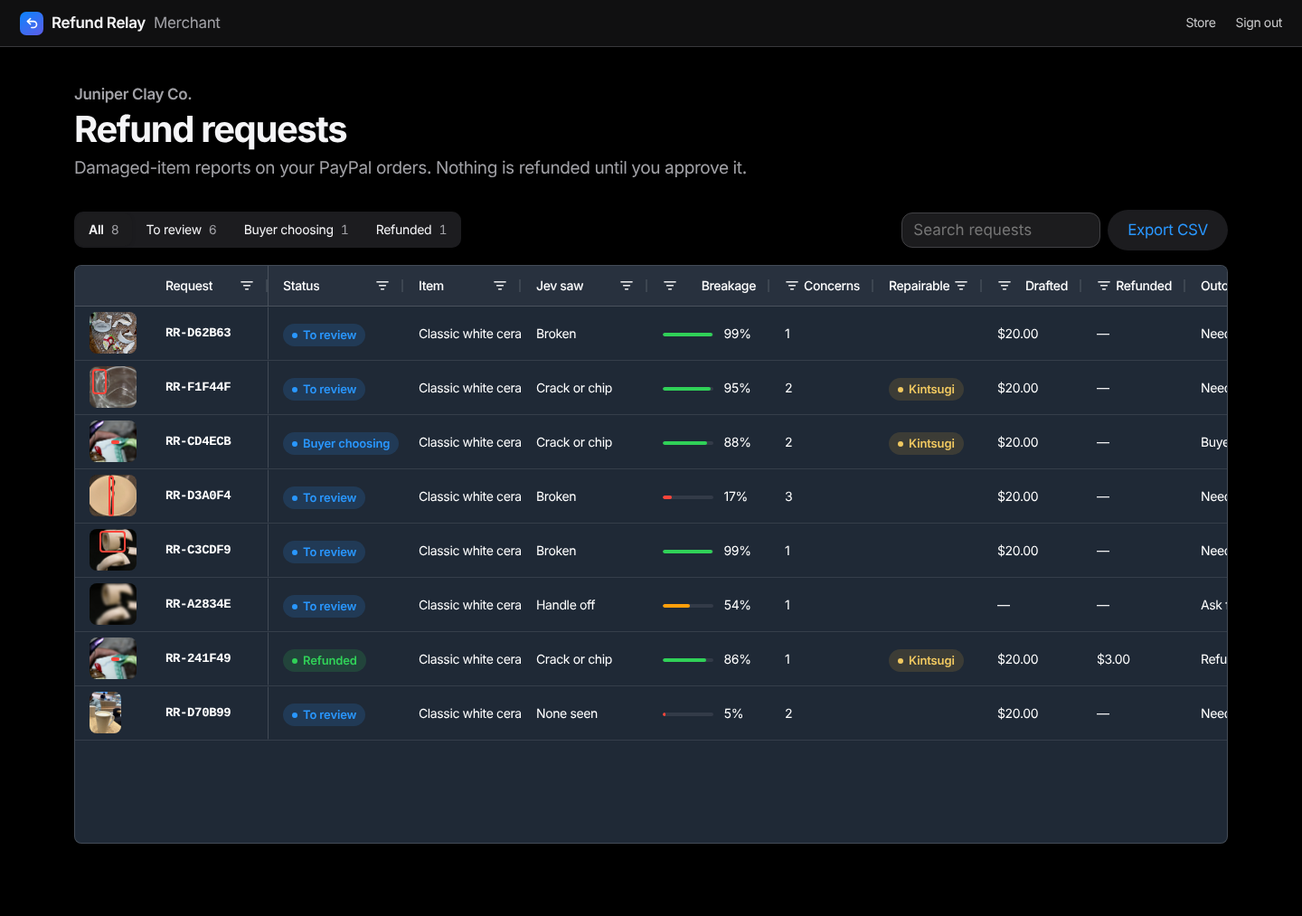
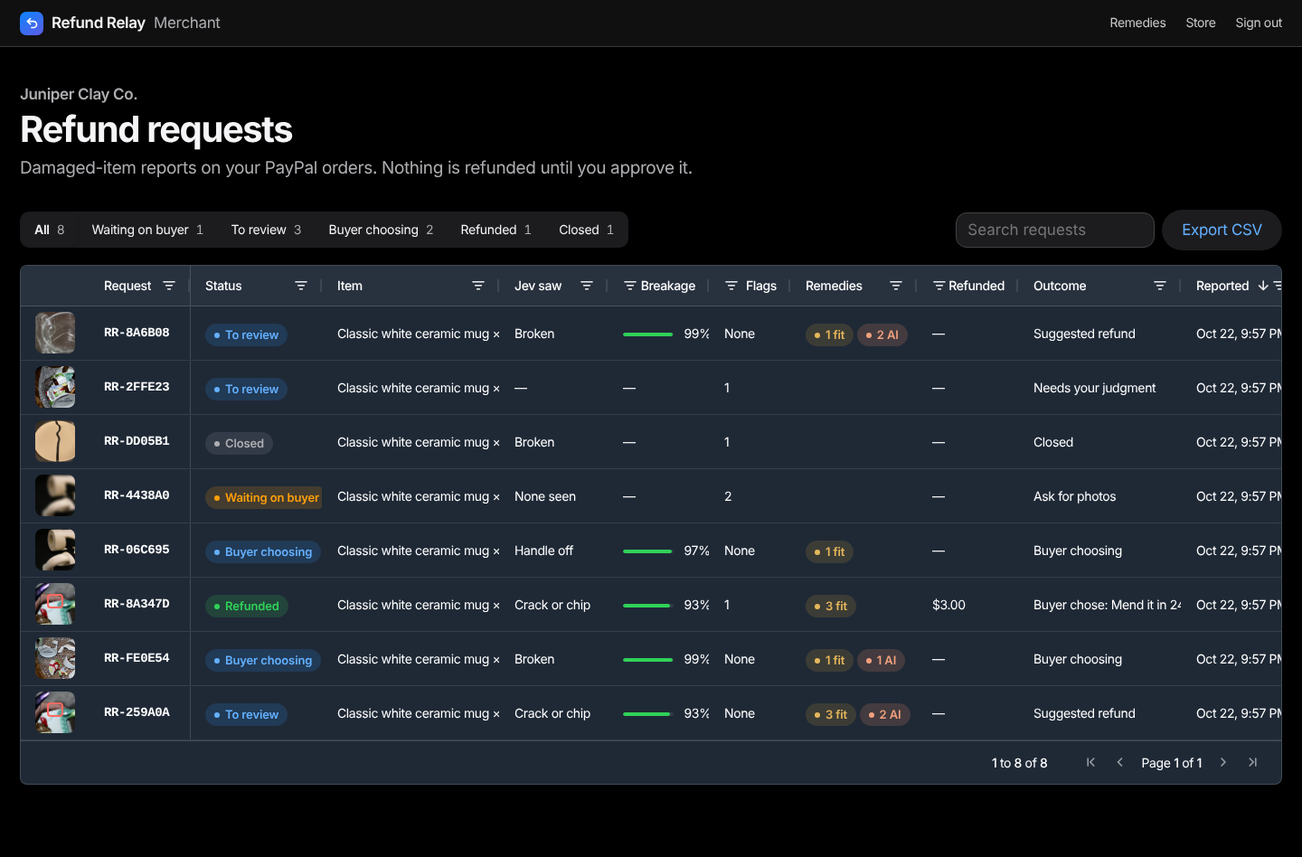
Polish pass: inbox fit, offer block with Haiku inside, contrast fixes
- Inbox grid fits the screen, grows with its rows, and shows library matches and Claude
  Haiku suggestions as separate pills.
- Case page: one offer block holds Jev's library matches, then Haiku's suggestions with
  Add and Dismiss, then "Let the buyer choose"; readable on a phone.
- Claude Haiku gets its own colour in the timeline; buyer success headline is short.
- WCAG AA contrast fixes for buttons, links, pills and labels in light and dark (axe).

Claude-Session: https://claude.ai/code/session_014cLwM6RZnsKra9CnWQkRmn

diff --git a/public/app.css b/public/app.css
@@ -7,19 +7,24 @@
   --fill: rgb(120 120 128 / 0.12);
   --fill-strong: rgb(120 120 128 / 0.2);
   --text: #1d1d1f;
-  --text-2: #6e6e73;
+  --text-2: #636366;
   --separator: rgb(60 60 67 / 0.16);
   --border: #d2d2d7;
   --nav-bg: rgb(255 255 255 / 0.72);
 
   --blue: #0071e3;
   --blue-hover: #0077ed;
-  --blue-text: #0066cc;
+  --blue-text: #0060c0;
+  --action: #0071e3; /* filled buttons: white text stays above 4.5:1 in both themes */
+  --paypal: #0070e0;
+  --red-fill: #d70015;
   --green: #1a7431;
   --green-fill: #34c759;
   --orange: #a14800;
   --red: #c70012;
   --purple: #8944ab;
+  --claude: #9c4a26;
+  --tint-claude: rgb(217 119 87 / 0.14);
   --tint-blue: rgb(0 113 227 / 0.1);
   --tint-green: rgb(52 199 89 / 0.14);
   --tint-orange: rgb(255 149 0 / 0.14);
@@ -45,8 +50,8 @@
 @media (prefers-color-scheme: dark) {
   :root:not([data-theme="light"]) {
     --bg: #000000; --surface: #1c1c1e; --surface-2: #2c2c2e; --fill: rgb(118 118 128 / 0.24); --fill-strong: rgb(118 118 128 / 0.36);
-    --text: #f5f5f7; --text-2: #a1a1a6; --separator: rgb(84 84 88 / 0.6); --border: #424245; --nav-bg: rgb(22 22 23 / 0.72);
-    --blue: #2997ff; --blue-text: #2997ff; --blue-hover: #47a6ff; --green: #30d158; --green-fill: #30d158; --orange: #ff9f0a; --red: #ff453a; --purple: #bf5af2;
+    --text: #f5f5f7; --text-2: #aeaeb2; --separator: rgb(84 84 88 / 0.6); --border: #424245; --nav-bg: rgb(22 22 23 / 0.72);
+    --blue: #2997ff; --blue-text: #64b0ff; --paypal: #5aa9ff; --red-fill: #d70015; --blue-hover: #47a6ff; --green: #30d158; --green-fill: #30d158; --orange: #ff9f0a; --red: #ff6961; --purple: #bf5af2; --claude: #f0a07e; --tint-claude: rgb(232 145 107 / 0.18);
     --tint-blue: rgb(41 151 255 / 0.16); --tint-green: rgb(48 209 88 / 0.16); --tint-orange: rgb(255 159 10 / 0.16);
     --tint-red: rgb(255 69 58 / 0.16); --tint-purple: rgb(191 90 242 / 0.16);
     --shadow: none; --shadow-lift: 0 8px 30px rgb(0 0 0 / 0.5); --focus: 0 0 0 4px rgb(41 151 255 / 0.4);
@@ -88,7 +93,7 @@ header.top nav a:hover { opacity: 1; text-decoration: none; }
 /* Layout */
 main { max-width: 1040px; margin: 0 auto; padding: 40px 22px 80px; }
 main.narrow { max-width: 640px; }
-main.wide { max-width: 1320px; }
+main.wide { max-width: 1480px; }
 .stack > * + * { margin-top: 16px; }
 .grid { display: grid; gap: 20px; }
 @media (min-width: 820px) { .grid.two { grid-template-columns: 1fr 1fr; } .grid.case { grid-template-columns: minmax(0, 1.3fr) minmax(0, 1fr); align-items: start; } }
@@ -154,7 +159,7 @@ select { appearance: none; padding-right: 40px; background-image: url("data:imag
 .dropzone:hover, .dropzone.over { border-color: var(--blue); background: var(--tint-blue); }
 .dropzone:focus-within { border-color: var(--blue); box-shadow: var(--focus); }
 .dropzone svg { width: 34px; height: 34px; color: var(--blue); }
-.dropzone strong { color: var(--blue); font-weight: 600; }
+.dropzone strong { color: var(--blue-text); font-weight: 600; }
 .dropzone input[type=file] { position: absolute; inset: 0; opacity: 0; cursor: pointer; min-height: 0; }
 .dropzone.has-files { min-height: 0; padding: 14px; flex-direction: row; justify-content: flex-start; }
 
@@ -162,13 +167,13 @@ select { appearance: none; padding-right: 40px; background-image: url("data:imag
 button, .button {
   display: inline-flex; align-items: center; justify-content: center; gap: 8px; min-height: 44px;
   font: inherit; font-size: 17px; font-weight: 400; letter-spacing: -0.02em; padding: 10px 22px;
-  border-radius: var(--r-pill); border: 0; background: var(--fill); color: var(--blue); cursor: pointer; text-decoration: none;
+  border-radius: var(--r-pill); border: 0; background: var(--fill); color: var(--blue-text); cursor: pointer; text-decoration: none;
   transition: background 0.2s var(--ease), transform 0.1s var(--ease), opacity 0.2s var(--ease);
 }
 button:hover, .button:hover { background: var(--fill-strong); text-decoration: none; }
 button:active:not(:disabled), .button:active { transform: scale(0.98); }
-button.primary, .button.primary { background: var(--blue); color: #fff; }
-button.primary:hover, .button.primary:hover { background: var(--blue-hover); }
+button.primary, .button.primary { background: var(--action); color: #fff; }
+button.primary:hover, .button.primary:hover { background: var(--action); filter: brightness(1.08); }
 button.lg, .button.lg { width: 100%; min-height: 52px; font-size: 17px; font-weight: 600; }
 button.approve { background: #1a7d36; color: #fff; font-weight: 600; width: 100%; min-height: 52px; }
 button.approve:hover { background: #1a7431; }
@@ -213,7 +218,7 @@ button:disabled { opacity: 0.4; cursor: default; }
 .damage-frame img { display: block; }
 .damage-box { position: absolute; border: 3px solid var(--red); border-radius: 10px; pointer-events: none; box-shadow: 0 0 0 9999px rgb(0 0 0 / 0.38); animation: box-in 0.6s var(--ease) 0.15s both; }
 .thumbs .damage-box { border-width: 2px; border-radius: 6px; box-shadow: none; }
-.damage-box .damage-label { position: absolute; left: -3px; bottom: 100%; margin-bottom: 6px; line-height: 1; padding: 5px 8px; border-radius: 7px; background: var(--red); color: #fff; font-size: 12px; font-weight: 600; white-space: nowrap; }
+.damage-box .damage-label { position: absolute; left: -3px; bottom: 100%; margin-bottom: 6px; line-height: 1; padding: 5px 8px; border-radius: 7px; background: var(--red-fill); color: #fff; font-size: 12px; font-weight: 600; white-space: nowrap; }
 .damage-box.low .damage-label { bottom: auto; top: 0; left: 0; margin: 0; border-radius: 6px 0 7px 0; } /* no room above: sit inside the corner */
 .damage-hero { margin: 4px 0 18px; }
 .damage-hero .damage-frame { max-width: 100%; }
@@ -249,7 +254,7 @@ button:disabled { opacity: 0.4; cursor: default; }
 .reasons li { display: flex; gap: 8px; padding: 4px 0; color: var(--orange); }
 .reasons li::before { content: "•"; }
 details.more { margin-top: 12px; border-top: 0.5px solid var(--separator); padding-top: 4px; }
-details.more summary { list-style: none; cursor: pointer; min-height: 44px; display: flex; align-items: center; justify-content: center; gap: 6px; color: var(--blue); font-size: 15px; border-radius: 8px; }
+details.more summary { list-style: none; cursor: pointer; min-height: 44px; display: flex; align-items: center; justify-content: center; gap: 6px; color: var(--blue-text); font-size: 15px; border-radius: 8px; }
 details.more summary::-webkit-details-marker { display: none; }
 details.more summary::after { content: ""; width: 7px; height: 7px; border: solid currentColor; border-width: 0 1.6px 1.6px 0; transform: rotate(45deg) translateY(-2px); transition: transform 0.2s var(--ease); }
 details.more[open] summary::after { transform: rotate(-135deg) translateY(-2px); }
@@ -330,13 +335,13 @@ ol.timeline li.merchant { --dot: var(--merchant); }
 ol.timeline .when { font-size: 13px; color: var(--text-2); }
 ol.timeline li.jev { --dot: var(--model); }
 ol.timeline li.policy { --dot: var(--orange); }
-ol.timeline li.paypal { --dot: #0070e0; }
+ol.timeline li.paypal { --dot: var(--paypal); }
 ol.timeline.agent li { padding-bottom: 16px; }
 ol.timeline.agent .who { font-size: 12px; font-weight: 600; letter-spacing: 0.02em; text-transform: uppercase; color: var(--dot, var(--text-2)); }
 ol.timeline.agent .who .when { font-weight: 400; text-transform: none; letter-spacing: 0; margin-left: 6px; }
 ol.timeline.agent .what { font-weight: 500; margin: 1px 0 2px; }
 ol.timeline.agent .small { line-height: 1.45; }
-ol.timeline.agent .footnote { margin: 2px 0 0; word-break: break-all; }
+ol.timeline.agent .footnote { margin: 2px 0 0; word-break: normal; overflow-wrap: anywhere; }
 
 /* Lightbox */
 dialog { border: 0; padding: 0; background: transparent; max-width: 92vw; }
@@ -375,7 +380,7 @@ footer.foot { max-width: 1040px; margin: 0 auto; padding: 0 22px 40px; color: va
 .grid-tools { display: flex; justify-content: space-between; align-items: center; gap: 12px; flex-wrap: wrap; margin-bottom: 16px; }
 .grid-tools input[type=search] { width: 220px; min-height: 36px; padding: 6px 12px; }
 .grid-tools button { min-height: 36px; }
-.inbox-grid { height: 640px; width: 100%;
+.inbox-grid { width: 100%;
   --ag-font-family: Inter, -apple-system, system-ui, sans-serif; --ag-font-size: 14px;
   --ag-background-color: var(--surface); --ag-foreground-color: var(--text); --ag-header-background-color: var(--surface-2);
   --ag-header-foreground-color: var(--text-2); --ag-border-color: var(--border); --ag-row-border-color: var(--separator);
@@ -388,9 +393,9 @@ footer.foot { max-width: 1040px; margin: 0 auto; padding: 0 22px 40px; color: va
 .grid-thumb img { height: 46px; width: auto; display: block; }
 .inbox-grid .meter { display: inline-block; margin-right: 8px; vertical-align: middle; }
 .grid-thumb i { position: absolute; border: 2px solid var(--red); border-radius: 4px; }
-.pill.gold { background: rgb(212 162 58 / 0.16); color: #9a6b10; }
+.pill.gold { background: rgb(212 162 58 / 0.16); color: #7d540a; }
 @media (prefers-color-scheme: dark) { .pill.gold { color: #f0c860; } }
-@media (max-width: 620px) { .inbox-grid { height: 520px; } .grid-tools input[type=search] { width: 100%; } }
+@media (max-width: 620px) { .grid-tools input[type=search] { width: 100%; } }
 
 /* Remedy library */
 .remedy-product { margin-top: 20px; padding: 24px; }
@@ -399,15 +404,18 @@ footer.foot { max-width: 1040px; margin: 0 auto; padding: 0 22px 40px; color: va
 .remedy-add input, .remedy-add select { margin: 0; }
 @media (max-width: 860px) { .remedy-add { grid-template-columns: 1fr; } }
 
-/* Claude Haiku suggestions on a case */
-.ai-suggest { margin-top: 18px; padding: 16px; border-radius: 16px; background: var(--surface-2); border: 1px solid var(--border); }
-.ai-suggest .lead { display: grid; grid-template-columns: 32px 1fr; gap: 10px; align-items: center; }
-.ai-suggest .lead .art { color: var(--model); display: grid; place-items: center; }
-.ai-suggest .lead .art svg { width: 24px; height: 24px; }
-.ai-suggest ul { list-style: none; margin: 12px 0 0; padding: 0; display: grid; gap: 10px; }
-.ai-suggest li { display: grid; grid-template-columns: 1fr auto; gap: 12px; align-items: center; padding: 12px; border-radius: 12px; background: var(--surface); }
+/* Claude Haiku suggestions inside the offer block */
+.ai-suggest { margin-top: 16px; padding-top: 14px; border-top: 1px solid rgb(212 162 58 / 0.35); }
+.ai-suggest .ai-head { display: flex; align-items: center; gap: 6px; font-size: 13px; font-weight: 600; color: var(--claude); }
+.ai-suggest .ai-head svg { width: 16px; height: 16px; }
+.ai-suggest ul { list-style: none; margin: 10px 0 0; padding: 0; display: grid; gap: 10px; }
+.ai-suggest li { display: grid; gap: 4px; padding: 14px; border-radius: 14px; background: var(--surface); border: 1px solid var(--separator); }
+.ai-suggest .sugg-top { display: grid; grid-template-columns: 1fr auto; gap: 12px; align-items: baseline; }
+.ai-suggest li .amt { font-weight: 600; font-variant-numeric: tabular-nums; white-space: nowrap; }
 .ai-suggest li.dismissed { opacity: 0.55; }
-.ai-suggest .sugg-act { display: flex; gap: 6px; }
-.ai-suggest .sugg-act button { padding: 8px 14px; }
-.option-list .fit.ai { color: var(--model); }
-ol.timeline li.claude { --dot: var(--model); }
+.ai-suggest .sugg-act { display: flex; gap: 8px; margin-top: 8px; align-items: center; }
+.ai-suggest .sugg-act button { min-height: 36px; padding: 6px 16px; font-size: 15px; }
+.option-list .fit.ai { color: var(--claude); }
+ol.timeline li.claude { --dot: var(--claude); }
+.pill.claude { color: var(--claude); background: var(--tint-claude); }
+@media (prefers-color-scheme: dark) { :root:not([data-theme="light"]) .pill.gold { color: #e6b75a; } }

diff --git a/public/merchant/case.html b/public/merchant/case.html
@@ -139,13 +139,7 @@
           <div class="small muted">${proposal.route === "request_info" ? "No amount until clearer photos arrive." : `${c.quantity} × ${usd(c.unitCents)} unit price paid`}</div>
         </div>
         ${proposal.reasons.length ? `<ul class="reasons">${proposal.reasons.map((r) => `<li>${esc(proposal.reasonText?.[r] || REASON[r] || r)}</li>`).join("")}</ul>` : ""}
-        ${suggestionsHtml(proposal.suggestions)}
-        ${proposal.options?.length > 1 ? `<div class="offer-pitch">
-          <div class="lead"><span class="art">${optionArt(proposal.options[1])}</span><div><b>${proposal.options.length - 1} ${proposal.options.length === 2 ? "remedy" : "remedies"} ready to offer</b><div class="small muted">${proposal.options.some((o) => o.source === "haiku") ? "Jev's matches from <a href=\"/merchant/remedies\">your remedy library</a> and the Haiku suggestions you approved." : "Jev matched these from <a href=\"/merchant/remedies\">your remedy library</a>, best fit first."} Offer them with the full refund and let the buyer pick.</div></div></div>
-          ${optionListHtml(proposal.options)}
-          <button id="send-offer" class="primary lg" style="margin-top:16px">Let the buyer choose</button>
-        </div>
-        <p class="small muted center" style="margin:16px 0 0">Or refund directly</p>` : ""}
+        ${offerHtml(proposal)}
         <label for="amount">Refund amount <span class="hint">Up to ${usd(payment.refundableCents)} left on this payment · ${esc(proposal.policyVersion)}</span></label>
         <input id="amount" type="number" inputmode="decimal" min="0.01" step="0.01" max="${(payment.refundableCents / 100).toFixed(2)}" value="${(suggested / 100).toFixed(2)}">
         <div id="reason-wrap" class="${proposal.route === "propose" ? "hidden" : ""}">
@@ -164,19 +158,33 @@
       </div>`;
     }
 
-    // Claude Haiku's suggestions from the store's listings. None reaches the buyer until approved here.
-    function suggestionsHtml(list) {
-      if (!list?.length) return "";
-      return `<div class="ai-suggest">
-        <div class="lead"><span class="art">${ICON.sparkle}</span><div><b>Claude Haiku suggests</b><div class="small muted">Picked from your store listings for this product and damage. Approve one to add it to the buyer's choices.</div></div></div>
-        <ul>${list.map((s) => `<li class="${s.status}">
-          <div><b>${esc(s.title)}</b>
-            <div class="small">Send ${esc(s.item)} (${usd(s.itemPriceCents)}) · ${s.refundUnitCents ? `${usd(s.refundUnitCents)} back per item` : "no refund"}</div>
-            <div class="small muted">${esc(s.why)}</div></div>
-          <div class="sugg-act">${s.status === "pending"
-            ? `<button class="primary" data-suggest="${esc(s.id)}" data-approve="1">Add</button><button class="plain" data-suggest="${esc(s.id)}">Dismiss</button>`
-            : `<span class="pill ${s.status === "approved" ? "ok" : ""}">${s.status === "approved" ? "Added" : "Dismissed"}</span>`}</div>
-        </li>`).join("")}</ul></div>`;
+    // Everything the buyer could be offered instead of the plain refund: Jev's matches from the
+    // remedy library, then Claude Haiku's suggestions from the store's listings. A suggestion only
+    // joins the list once the merchant adds it.
+    function offerHtml(proposal) {
+      const options = proposal.options ?? [], suggestions = proposal.suggestions ?? [];
+      if (options.length < 2 && !suggestions.length) return "";
+      const library = options.filter((o) => o.kind !== "refund" && o.source !== "haiku").length;
+      const head = options.length > 1
+        ? `<b>${options.length - 1} ${options.length === 2 ? "remedy" : "remedies"} ready to offer</b><div class="small muted">${library ? `Jev matched ${library} from <a href="/merchant/remedies">your remedy library</a> to the photos.` : ""}${options.length - 1 > library ? ` ${options.length - 1 - library} added from Claude Haiku's suggestions.` : ""} The buyer picks one, or the full refund.</div>`
+        : `<b>No library remedy fits this damage</b><div class="small muted">Claude Haiku looked through your store listings instead. Add a suggestion to let the buyer choose.</div>`;
+      const art = options.length > 1 ? optionArt(options[1]) : ICON.sparkle;
+      return `<div class="offer-pitch">
+          <div class="lead"><span class="art">${art}</span><div>${head}</div></div>
+          ${options.length > 1 ? optionListHtml(options) : ""}
+          ${suggestions.length ? `<div class="ai-suggest">
+            <div class="ai-head">${ICON.sparkle}<span>Claude Haiku suggests</span></div>
+            <ul>${suggestions.map((s) => `<li class="${s.status}">
+              <div class="sugg-top"><b>${esc(s.title)}</b><span class="amt">${s.refundUnitCents ? `${usd(s.refundUnitCents)} back` : "No refund"}</span></div>
+              <div class="small">Ships free: ${esc(s.item)} <span class="muted">(${usd(s.itemPriceCents)} listing)</span></div>
+              <div class="small muted">${esc(s.why)}</div>
+              <div class="sugg-act">${s.status === "pending"
+                ? `<button class="primary" data-suggest="${esc(s.id)}" data-approve="1">Add to the offer</button><button class="plain" data-suggest="${esc(s.id)}">Dismiss</button>`
+                : `<span class="pill ${s.status === "approved" ? "ok" : ""}">${s.status === "approved" ? "Added to the offer" : "Dismissed"}</span>`}</div>
+            </li>`).join("")}</ul></div>` : ""}
+          ${options.length > 1 ? `<button id="send-offer" class="primary lg" style="margin-top:16px">Let the buyer choose</button>` : ""}
+        </div>
+        ${options.length > 1 ? `<p class="small muted center" style="margin:16px 0 0">Or refund directly</p>` : ""}`;
     }
 
     function optionListHtml(options) {

diff --git a/public/merchant/index.html b/public/merchant/index.html
@@ -68,19 +68,20 @@
     const html = (fn) => (p) => { const el = document.createElement("span"); el.innerHTML = fn(p.data, p.value); return el; };
 
     const columns = [
-      { headerName: "", field: "thumb", cellRenderer: thumbCell, width: 84, sortable: false, filter: false, resizable: false, pinned: "left", getQuickFilterText: () => "" },
-      { headerName: "Request", field: "ref", width: 130, pinned: "left", cellClass: "mono-cell" },
-      { headerName: "Status", field: "status", width: 150, cellRenderer: html((r) => pill(r.status)), getQuickFilterText: (p) => STATUS[p.value]?.[0] ?? p.value },
-      { headerName: "Item", field: "title", flex: 1, minWidth: 130, valueGetter: (p) => `${p.data.title} × ${p.data.quantity}` },
-      { headerName: "Jev saw", field: "damage_kind", width: 140, valueFormatter: (p) => DAMAGE[p.value] ?? "—" },
-      { headerName: "Breakage", field: "breakage", width: 135, type: "rightAligned",
+      { headerName: "", field: "thumb", cellRenderer: thumbCell, width: 76, sortable: false, filter: false, resizable: false, pinned: "left", getQuickFilterText: () => "" },
+      { headerName: "Request", field: "ref", width: 112, pinned: "left", cellClass: "mono-cell" },
+      { headerName: "Status", field: "status", width: 146, cellRenderer: html((r) => pill(r.status)), getQuickFilterText: (p) => STATUS[p.value]?.[0] ?? p.value },
+      { headerName: "Item", field: "title", flex: 1, minWidth: 196, tooltipValueGetter: (p) => p.data.title, valueGetter: (p) => `${p.data.title} × ${p.data.quantity}` },
+      { headerName: "Jev saw", field: "damage_kind", width: 120, valueFormatter: (p) => DAMAGE[p.value] ?? "—" },
+      { headerName: "Breakage", field: "breakage", width: 112, type: "rightAligned",
         cellRenderer: html((r) => r.breakage == null ? "—" : `<span class="meter" style="color:var(--${r.breakage >= 0.8 ? "green-fill" : r.breakage <= 0.2 ? "red" : "orange"})"><i style="width:${Math.round(r.breakage * 100)}%"></i></span> ${Math.round(r.breakage * 100)}%`) },
-      { headerName: "Concerns", field: "concerns", width: 115, type: "rightAligned", valueFormatter: (p) => p.value == null ? "—" : p.value === 0 ? "None" : String(p.value) },
-      { headerName: "Remedies", field: "remedies", width: 120, cellRenderer: html((r) => r.remedies ? `<span class="pill gold">${r.remedies} fit${r.remedies === 1 ? "s" : ""}</span>` : "") },
-      { headerName: "Drafted", field: "proposed_cents", width: 110, type: "rightAligned", valueFormatter: (p) => p.value ? usd(p.value) : "—" },
-      { headerName: "Refunded", field: "refunded_cents", width: 115, type: "rightAligned", valueFormatter: (p) => p.value ? usd(p.value) : "—" },
-      { headerName: "Outcome", colId: "outcome", width: 230, valueGetter: (p) => OUTCOME(p.data) },
-      { headerName: "Reported", field: "created_at", width: 165, sort: "desc", valueFormatter: (p) => when(p.value) },
+      { headerName: "Flags", field: "concerns", width: 90, headerTooltip: "Concerns the refund policy raised", type: "rightAligned", valueFormatter: (p) => p.value == null ? "—" : p.value === 0 ? "None" : String(p.value) },
+      { headerName: "Remedies", field: "remedies", width: 140, sortable: true, comparator: (a, b, x, y) => (a + x.data.ai_suggestions) - (b + y.data.ai_suggestions),
+        cellRenderer: html((r) => `${r.remedies ? `<span class="pill gold" title="Library remedies Jev matched">${r.remedies} fit</span>` : ""}${r.ai_suggestions ? ` <span class="pill claude" title="Claude Haiku suggestions, open or added">${r.ai_suggestions} AI</span>` : ""}`) },
+      { headerName: "Drafted", field: "proposed_cents", width: 100, hide: true, type: "rightAligned", valueFormatter: (p) => p.value ? usd(p.value) : "—" },
+      { headerName: "Refunded", field: "refunded_cents", width: 112, type: "rightAligned", valueFormatter: (p) => p.value ? usd(p.value) : "—" },
+      { headerName: "Outcome", colId: "outcome", flex: 1, minWidth: 180, tooltipValueGetter: (p) => OUTCOME(p.data), valueGetter: (p) => OUTCOME(p.data) },
+      { headerName: "Reported", field: "created_at", width: 132, sort: "desc", valueFormatter: (p) => p.value ? new Date(p.value).toLocaleString(undefined, { month: "short", day: "numeric", hour: "numeric", minute: "2-digit" }) : "" },
     ];
 
     function makeGrid() {
@@ -89,7 +90,7 @@
       const theme = () => $("grid").classList.toggle("ag-theme-quartz-dark", dark.matches);
       theme(); dark.addEventListener?.("change", theme);
       grid = agGrid.createGrid($("grid"), {
-        columnDefs: columns, rowData: [], rowHeight: 60, headerHeight: 44, animateRows: true,
+        columnDefs: columns, rowData: [], rowHeight: 60, headerHeight: 44, animateRows: true, domLayout: "autoHeight", pagination: true, paginationPageSize: 20, paginationPageSizeSelector: false,
         defaultColDef: { sortable: true, resizable: true, filter: true, suppressHeaderMenuButton: false },
         getRowId: (p) => p.data.id,
         isExternalFilterPresent: () => filter !== "all",

diff --git a/src/views.js b/src/views.js
@@ -10,7 +10,8 @@ const json = (s) => (s ? JSON.parse(s) : null);
 // Newest first, one page at a time: `before` is the created_at of the last row already shown.
 // The whole table in one response was 4.8 MB and 200 ms at 20k claims.
 // Each row also carries what the merchant grid shows at a glance: Jev's headline finding, the
-// photo it outlined, how many concerns the policy raised, and how the case ended.
+// photo it outlined, how many concerns the policy raised, how many library remedies fit and how
+// many Claude Haiku suggestions are open or added, and how the case ended.
 export function inbox(db, { limit = 100, before = null } = {}) {
   const n = Math.min(Math.max(Number(limit) || 100, 1), 500);
   return db.prepare(`
@@ -20,6 +21,7 @@ export function inbox(db, { limit = 100, before = null } = {}) {
       (SELECT COUNT(*) FROM evidence e WHERE e.claim_id = c.id) AS photos,
       (SELECT chosen_option FROM offers f WHERE f.claim_id = c.id ORDER BY f.created_at DESC LIMIT 1) AS chosen_option,
       (SELECT options_json FROM offers f WHERE f.claim_id = c.id ORDER BY f.created_at DESC LIMIT 1) AS offer_options,
+      (SELECT COUNT(*) FROM suggestions s WHERE s.proposal_id = p.id AND (s.status = 'approved' OR (s.status = 'pending' AND c.status = 'ready'))) AS ai_suggestions,
       (SELECT COALESCE(SUM(amount_cents), 0) FROM refund_ops r WHERE r.claim_id = c.id AND r.status = 'COMPLETED') AS refunded_cents
     FROM claims c JOIN order_lines l ON l.id = c.line_id JOIN orders o ON o.id = c.order_id
     LEFT JOIN proposals p ON p.id = (SELECT id FROM proposals x WHERE x.claim_id = c.id ORDER BY x.created_at DESC LIMIT 1)
@@ -35,7 +37,7 @@ export function inbox(db, { limit = 100, before = null } = {}) {
       damage_kind: f?.damage_kind ?? null,
       breakage: f?.signals?.visible_breakage ?? null,
       concerns: calc?.reasons?.length ?? null,
-      remedies: Math.max(0, (calc?.options ?? []).length - 1),
+      remedies: (calc?.options ?? []).filter((o) => o.kind !== "refund").length,
       chosen_title: (json(offer_options) ?? []).find((o) => o.id === r.chosen_option)?.title ?? null,
       thumb: i >= 0 ? { id: sent[i], box: f.locations[i].box } : r.first_photo ? { id: r.first_photo, box: null } : null,
     };

diff --git a/public/status.html b/public/status.html
@@ -29,6 +29,7 @@
   <script type="module">
     import { api, usd, esc, hashToken, when, checkBadge, ICON, busy, settle, optionText, optionArt, optionAmount } from "/app.js";
     import { shrinkPhotos } from "/photos.js";
+    const cap = (t) => t.charAt(0).toUpperCase() + t.slice(1);
     const claimId = new URLSearchParams(location.search).get("claim");
     const token = hashToken();
     const $ = (id) => document.getElementById(id);
@@ -66,7 +67,7 @@
           ${refunded || s.status === "resolved" ? checkBadge() : ""}
           <p class="eyebrow" style="margin:0">Request ${esc(s.ref)}</p>
           ${refunded ? `<div class="big amount">${usd(s.refund.amountCents)}</div>` : ""}
-          <h2 style="font-size:28px;letter-spacing:-0.03em">${esc(chosen(s)?.item && (refunded || s.status === "resolved") ? (refunded ? "Refund sent, and " : "Sorted: ") + chosen(s).item + " is on its way." : s.message)}</h2>
+          <h2 style="font-size:28px;letter-spacing:-0.03em">${esc(chosen(s)?.item && (refunded || s.status === "resolved") ? `${refunded ? "Refund sent." : "All sorted."} ${cap(chosen(s).item)} is on its way.` : s.message)}</h2>
           <ol class="tracker" style="--n:3;margin:28px 0 8px">${steps(s)}</ol>
         </div>
         ${s.offer?.open ? `<div class="card"><h2 style="margin-top:0">Pick one</h2><p class="muted" style="margin-top:-6px">The shop approved every option here. The amount on each is what comes back to your PayPal account.</p>${optionsHtml(s.offer)}</div>` : ""}

diff --git a/src/catalog.js b/src/catalog.js
@@ -9,10 +9,10 @@ export const PRODUCTS = {
     // Starting remedy library. The merchant edits it on the Remedies page; Jev reads each "fits"
     // line against the photos and the best-fitting ones become the buyer's options.
     remedies: [
-      { id: "kintsugi", kind: "repair_kit", title: "Keep it and mend it with kintsugi", item: "kintsugi repair kit with gold powder",
+      { id: "kintsugi", kind: "repair_kit", title: "Keep it and mend it with kintsugi", item: "a kintsugi repair kit with gold powder",
         fits: "Mends a chip, a crack, or a snapped-off handle on a ceramic mug that is otherwise in one piece. Cannot rebuild a mug broken into many pieces.",
         refundUnitCents: 1200 },
-      { id: "kintsugi_gold", kind: "repair_kit", title: "Mend it in 24k gold leaf", item: "24k gold-leaf kintsugi kit (its $9 price comes off the refund)",
+      { id: "kintsugi_gold", kind: "repair_kit", title: "Mend it in 24k gold leaf ($9 kit)", item: "a 24k gold-leaf kintsugi kit",
         fits: "Mends a chip, a crack, or a snapped-off handle on a ceramic mug that is otherwise in one piece, with real gold leaf. Cannot rebuild a mug broken into many pieces.",
         refundUnitCents: 300 },
       { id: "replacement", kind: "replacement", title: "Get a new one, shipped free", item: "a new Classic white ceramic mug",

diff --git a/tests/offers.test.js b/tests/offers.test.js
@@ -74,13 +74,14 @@ test("buyer picks the gold kit: one PayPal refund for the net amount, and a retr
     // The agent timeline tells the whole story in order, naming who acted at each step.
     const who = d.timeline.map((x) => x.actor);
     assert.deepEqual([...new Set(who)], ["buyer", "jev", "policy", "merchant", "paypal"]);
-    assert.ok(d.timeline.some((x) => x.title === "Buyer chose: Mend it in 24k gold leaf"));
+    assert.ok(d.timeline.some((x) => x.title === "Buyer chose: Mend it in 24k gold leaf ($9 kit)"));
     assert.equal(d.timeline.at(-1).title, "PayPal completed the refund");
     // The inbox grid row carries the headline finding and how the case ended.
     const row = (await t.merchant("GET", "/claims")).body.find((r) => r.id === o.claimId);
     assert.equal(row.damage_kind, "handle_off");
     assert.equal(row.remedies, 3);
-    assert.equal(row.chosen_title, "Mend it in 24k gold leaf");
+    assert.equal(row.ai_suggestions, 0);
+    assert.equal(row.chosen_title, "Mend it in 24k gold leaf ($9 kit)");
     assert.equal(row.chosen_option, "kintsugi_gold");
     assert.equal(row.refunded_cents, 300);
     assert.equal(row.concerns, 0);

diff --git a/public/merchant/remedies.html b/public/merchant/remedies.html
@@ -22,7 +22,7 @@
     <section id="library" class="hidden">
       <p class="eyebrow">Juniper Clay Co.</p>
       <h1>Remedies</h1>
-      <p class="lede">What you can offer instead of a full refund. When a buyer reports damage, Jev compares their photos with each active remedy's "when it fits" description, and only the ones that fit go on the list you approve. A full refund is always one of the choices.</p>
+      <p class="lede">What you can offer instead of a full refund. When a buyer reports damage, Jev compares their photos with each active remedy's "when it fits" description, and only the ones that fit go on the list you approve. A full refund is always one of the choices. When nothing here fits, Claude Haiku can suggest one of your other store listings on the case itself, and you decide whether to add it.</p>
       <div id="notice" class="notice hidden" role="status"></div>
       <div id="products"></div>
     </section>

diff --git a/hackathon/DESIGN.md b/hackathon/DESIGN.md
@@ -30,6 +30,14 @@ All tokens live at the top of `public/app.css` and have dark-mode values.
 
 Rendered by the PayPal JS SDK with official style options only (`color: gold`, `shape: pill`, `label: paypal`, `height: 50`). We never restyle or overlay the iframe, and keep "Powered by PayPal".
 
+## Polish pass (2026-10-22)
+
+- Inbox grid fits a 1440 px screen without sideways scrolling, grows with its rows (pages of 20), and shows remedies as a gold "N fit" pill (library matches) next to a clay "N AI" pill (Claude Haiku suggestions still open or added). The drafted amount stays in the CSV.
+- Case page: one offer block holds the library matches, then Claude Haiku's suggestions with "Add to the offer" and "Dismiss", then "Let the buyer choose". When no library remedy fits, the block says so and shows Haiku's suggestions alone.
+- Claude Haiku has its own colour (clay, `--claude`) in the timeline and pills, apart from Jev's blue.
+- Buyer success headline is short: "Refund sent. A 24k gold-leaf kintsugi kit is on its way."
+- Contrast: filled buttons use `--action` (#0071e3) in both themes so white text stays above 4.5:1; link-blue, secondary grey, red, gold and clay text darkened (light) or lightened (dark) to pass AA on their tints.
+
 ## Accessibility check
 
-axe-core 4.10 (WCAG 2 A/AA rules) on store, inbox and case pages in light and dark mode: 0 violations. Focus rings on every control, labels on all inputs, `role="alert"` on errors, `aria-live` on the tracker.
+axe-core 4.10 (WCAG 2 A/AA rules), re-run 2026-10-22 on the store, claim form, inbox, remedies, eight case states and eight buyer status states, light, dark and phone: no colour or labelling violations. One remains inside AG Grid itself (`scrollable-region-focusable` on its viewports); the grid cells are keyboard-navigable through AG Grid's own focus handling, and forcing a tabindex on the viewport broke its ARIA roles, so it is left as is. Focus rings on every control, labels on all inputs, `role="alert"` on errors, `aria-live` on the tracker.
